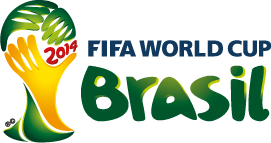
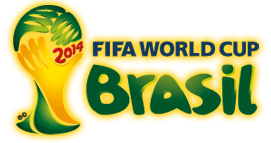
Style Black/gold

diff --git a/style.css b/style.css
@@ -7,18 +7,49 @@ body {
     background-attachment: fixed;
 }
 
+.logo {
+    width : 150px;
+    display : block;
+    margin : auto;
+}
+
+#header {
+    margin-bottom : -22px;
+	margin-top: -7px;
+	padding-bottom: 20px;
+	padding-top: 20px;
+	/* Permalink - use to edit and share this gradient: http://colorzilla.com/gradient-editor/#000000+0,111010+100 */
+	background: #000000; /* Old browsers */
+	background: -moz-linear-gradient(top,  #000000 0%, #111010 100%); /* FF3.6-15 */
+	background: -webkit-linear-gradient(top,  #000000 0%,#111010 100%); /* Chrome10-25,Safari5.1-6 */
+	background: linear-gradient(to bottom,  #000000 0%,#111010 100%); /* W3C, IE10+, FF16+, Chrome26+, Opera12+, Safari7+ */
+	filter: progid:DXImageTransform.Microsoft.gradient( startColorstr='#000000', endColorstr='#111010',GradientType=0 ); /* IE6-9 */
+
+}
+
 h1, h2, h3, h4 {
     text-align: center;
-    color: #555;
+    /* Permalink - use to edit and share this gradient: http://colorzilla.com/gradient-editor/#eab92d+0,c79810+100;Yellow+3D+%232 */
+	color: #eab92d; /* Old browsers */
+	color: -moz-linear-gradient(top,  #eab92d 0%, #c79810 100%); /* FF3.6-15 */
+	color: -webkit-linear-gradient(top,  #eab92d 0%,#c79810 100%); /* Chrome10-25,Safari5.1-6 */
+	color: linear-gradient(to bottom,  #eab92d 0%,#c79810 100%); /* W3C, IE10+, FF16+, Chrome26+, Opera12+, Safari7+ */
+	filter: progid:DXImageTransform.Microsoft.gradient( startColorstr='#eab92d', endColorstr='#c79810',GradientType=0 ); /* IE6-9 */
 }
 
 /* navbar */
 .nav ul {
-  list-style: none;
-  background-color: #C8F7C5;
-  text-align: center;
-  padding: 0;
-  margin: 0;
+	list-style: none;
+	text-align: center;
+	padding: 0;
+	margin: 0;
+	/* Permalink - use to edit and share this gradient: http://colorzilla.com/gradient-editor/#353535+0,0e0e0e+42 */
+	background: #353535; /* Old browsers */
+	background: -moz-linear-gradient(top,  #353535 0%, #0e0e0e 42%); /* FF3.6-15 */
+	background: -webkit-linear-gradient(top,  #353535 0%,#0e0e0e 42%); /* Chrome10-25,Safari5.1-6 */
+	background: linear-gradient(to bottom,  #353535 0%,#0e0e0e 42%); /* W3C, IE10+, FF16+, Chrome26+, Opera12+, Safari7+ */
+	filter: progid:DXImageTransform.Microsoft.gradient( startColorstr='#353535', endColorstr='#0e0e0e',GradientType=0 ); /* IE6-9 */
+
 }
 .nav li {
   font-family: 'Oswald', sans-serif;
@@ -29,15 +60,20 @@ h1, h2, h3, h4 {
 }
  
 .nav a {
-  text-decoration: none;
-  color: #555;
-  display: block;
-  transition: .3s background-color;
+	text-decoration: none;
+	/* Permalink - use to edit and share this gradient: http://colorzilla.com/gradient-editor/#eab92d+0,c79810+100;Yellow+3D+%232 */
+	color: #eab92d; /* Old browsers */
+	color: -moz-linear-gradient(top,  #eab92d 0%, #c79810 100%); /* FF3.6-15 */
+	color: -webkit-linear-gradient(top,  #eab92d 0%,#c79810 100%); /* Chrome10-25,Safari5.1-6 */
+	color: linear-gradient(to bottom,  #eab92d 0%,#c79810 100%); /* W3C, IE10+, FF16+, Chrome26+, Opera12+, Safari7+ */
+	filter: progid:DXImageTransform.Microsoft.gradient( startColorstr='#eab92d', endColorstr='#c79810',GradientType=0 ); /* IE6-9 */
+	display: block;
+	transition: .3s background-color;
 }
  
 .nav a:hover {
 	color: #ffffff;
-  background-color: #005f5f;
+	background-color: #FFB61E;
 }
  
 .nav a.active {
@@ -77,9 +113,15 @@ h1, h2, h3, h4 {
 #graphiqueMonde {
 	overflow:hidden;
 	border-radius: 10px;
-    background-color : #C8F7C5;
 	margin :15px;
 	padding : 5px;
+	/* Permalink - use to edit and share this gradient: http://colorzilla.com/gradient-editor/#111010+0,000000+100 */
+	background: #111010; /* Old browsers */
+	background: -moz-linear-gradient(top,  #111010 0%, #000000 100%); /* FF3.6-15 */
+	background: -webkit-linear-gradient(top,  #111010 0%,#000000 100%); /* Chrome10-25,Safari5.1-6 */
+	background: linear-gradient(to bottom,  #111010 0%,#000000 100%); /* W3C, IE10+, FF16+, Chrome26+, Opera12+, Safari7+ */
+	filter: progid:DXImageTransform.Microsoft.gradient( startColorstr='#111010', endColorstr='#000000',GradientType=0 ); /* IE6-9 */
+
 }
 
 #worldMap {
@@ -90,10 +132,15 @@ h1, h2, h3, h4 {
 	width: 800px; 
 	height: 500px;
 	border-radius: 15px;
-	border-color: #90C695;
+	/* Permalink - use to edit and share this gradient: http://colorzilla.com/gradient-editor/#eab92d+0,c79810+100;Yellow+3D+%232 */
+	border-color: #eab92d; /* Old browsers */
+	border-color: -moz-linear-gradient(top,  #eab92d 0%, #c79810 100%); /* FF3.6-15 */
+	border-color: -webkit-linear-gradient(top,  #eab92d 0%,#c79810 100%); /* Chrome10-25,Safari5.1-6 */
+	border-color: linear-gradient(to bottom,  #eab92d 0%,#c79810 100%); /* W3C, IE10+, FF16+, Chrome26+, Opera12+, Safari7+ */
+	filter: progid:DXImageTransform.Microsoft.gradient( startColorstr='#eab92d', endColorstr='#c79810',GradientType=0 ); /* IE6-9 */
 	border-width : 5px;
 	border-style: solid;
-    background-color : #FFFFFF;
+    background-color : #080808;
 }
 
 .datamap {
@@ -110,9 +157,10 @@ h1, h2, h3, h4 {
 	margin-bottom :15px; 
 	width: 770px;
 	height: 20px;
-	background-color : #FFFFFF;
+	background-color : #080808;
 	border-radius: 10px;
 	text-align : center;
+	color : #FFFFFF;
 }
 
 .datamaps-legend dl {
@@ -120,13 +168,31 @@ h1, h2, h3, h4 {
   display: inline-block;
 }
 
+.hoverinfo {
+    position : relative;
+    left : 350px;
+    top : 200px;
+}
+
 /* info equipe */
 #infosEquipe {
 	border-radius: 10px;
-    background-color : #C8F7C5;
 	margin :15px;
 	padding : 5px;
 	text-align: center;
+	color: #D2D7D3;
+	font-style : bold;
+	/* Permalink - use to edit and share this gradient: http://colorzilla.com/gradient-editor/#111010+0,000000+100 */
+	background: #111010; /* Old browsers */
+	background: -moz-linear-gradient(top,  #111010 0%, #000000 100%); /* FF3.6-15 */
+	background: -webkit-linear-gradient(top,  #111010 0%,#000000 100%); /* Chrome10-25,Safari5.1-6 */
+	background: linear-gradient(to bottom,  #111010 0%,#000000 100%); /* W3C, IE10+, FF16+, Chrome26+, Opera12+, Safari7+ */
+	filter: progid:DXImageTransform.Microsoft.gradient( startColorstr='#111010', endColorstr='#000000',GradientType=0 ); /* IE6-9 */
+}
+
+#infosEquipe a {
+	color: #D2D7D3;
+	font-style : bold;
 }
 /* pour piechart et barH */
 #graphiqueStats{
@@ -145,7 +211,12 @@ h1, h2, h3, h4 {
 	height: 100%;
 	border-radius: 10px;
 	border-color: #6BB9F0;
-	background-color : #C8F7C5;
+	/* Permalink - use to edit and share this gradient: http://colorzilla.com/gradient-editor/#111010+0,000000+100 */
+	background: #111010; /* Old browsers */
+	background: -moz-linear-gradient(top,  #111010 0%, #000000 100%); /* FF3.6-15 */
+	background: -webkit-linear-gradient(top,  #111010 0%,#000000 100%); /* Chrome10-25,Safari5.1-6 */
+	background: linear-gradient(to bottom,  #111010 0%,#000000 100%); /* W3C, IE10+, FF16+, Chrome26+, Opera12+, Safari7+ */
+	filter: progid:DXImageTransform.Microsoft.gradient( startColorstr='#111010', endColorstr='#000000',GradientType=0 ); /* IE6-9 */
 }
 
 .arc path {
@@ -159,6 +230,12 @@ h1, h2, h3, h4 {
 
 .legend {
 	font-size: 12px;
+	/* Permalink - use to edit and share this gradient: http://colorzilla.com/gradient-editor/#eab92d+0,c79810+100;Yellow+3D+%232 */
+	color: #eab92d; /* Old browsers */
+	color: -moz-linear-gradient(top,  #eab92d 0%, #c79810 100%); /* FF3.6-15 */
+	color: -webkit-linear-gradient(top,  #eab92d 0%,#c79810 100%); /* Chrome10-25,Safari5.1-6 */
+	color: linear-gradient(to bottom,  #eab92d 0%,#c79810 100%); /* W3C, IE10+, FF16+, Chrome26+, Opera12+, Safari7+ */
+	filter: progid:DXImageTransform.Microsoft.gradient( startColorstr='#eab92d', endColorstr='#c79810',GradientType=0 ); /* IE6-9 */
 }
 
 legend.rect {
@@ -175,14 +252,19 @@ legend.rect {
 	height: 100%;
 	border-radius: 10px;
 	border-color: #6BB9F0;
-	background-color : #C8F7C5;
+	/* Permalink - use to edit and share this gradient: http://colorzilla.com/gradient-editor/#111010+0,000000+100 */
+	background: #111010; /* Old browsers */
+	background: -moz-linear-gradient(top,  #111010 0%, #000000 100%); /* FF3.6-15 */
+	background: -webkit-linear-gradient(top,  #111010 0%,#000000 100%); /* Chrome10-25,Safari5.1-6 */
+	background: linear-gradient(to bottom,  #111010 0%,#000000 100%); /* W3C, IE10+, FF16+, Chrome26+, Opera12+, Safari7+ */
+	filter: progid:DXImageTransform.Microsoft.gradient( startColorstr='#111010', endColorstr='#000000',GradientType=0 ); /* IE6-9 */
 }
 
 .bar {
-    background-color: #59ABE3;
-    /*border: 1px solid midnightblue;*/
+    background-color: #FFB61E;
     margin-top : 2px;
-    color : white;
+    color: black;
+	font-style : bold;
     font-size : 16px;
     text-align : right;
     font-weight : bold;
@@ -193,30 +275,15 @@ legend.rect {
 	border-color: #6BB9F0;
 }
 
-.logo {
-    width : 150px;
-    display : block;
-    margin : auto;
-}
-
-#header {
-    margin-bottom : -20px;
-}
-
 .bar:hover {
-    background-color: #4183D7;
+    background-color: #F9690E;
 }
 
 #barH label {
-    color : #555;
+    color: #FFFFFF;
     font-size : 12px;
     display : inline-block;
     width : 30%;
     font-style : bold;
-}
-
-.hoverinfo {
-    position : relative;
-    left : 350px;
-    top : 200px;
+	font-weight : bold;
 }

diff --git a/script.js b/script.js
@@ -9,7 +9,8 @@ function creationPie(donnees, paysVoulu){
 	var w = 575;
 	var h = 370;
 	var r = h/2;
-	var color = d3.scale.category20c();
+	var color = d3.scale.ordinal()
+    .range(["#F9690E","#FFB61E"]);
 	var legendRectSize = 18;
     var legendSpacing = 4;
 
@@ -41,7 +42,12 @@ function creationPie(donnees, paysVoulu){
 
 	var arc = d3.svg.arc().outerRadius(r);
 
-	var arcs = vis.selectAll("g.slice").data(pie).enter().append("svg:g").attr("class", "slice");
+	var arcs = vis.selectAll("g.slice")
+					.data(pie)
+					.enter()
+					.append("svg:g")
+					.attr("class", "slice");
+	
 	arcs.append("svg:path")
 		.attr("fill", function(d, i){
 			return color(i);
@@ -53,9 +59,10 @@ function creationPie(donnees, paysVoulu){
 	arcs.append("svg:text").attr("transform", function(d){
 				d.innerRadius = 0;
 				d.outerRadius = r;
-		return "translate(" + arc.centroid(d) + ")";}).attr("text-anchor", "middle").text( function(d, i) {
-		return data[i].value;}
-		);
+				return "translate(" + arc.centroid(d) + ")";})
+		.attr("text-anchor", "middle").text( function(d, i) {return data[i].value;})
+		.style('fill', 'black')
+		.style('stroke', 'black');;
 	
 	var legend = vis.selectAll('.legend') 
           .data(color.domain())  
@@ -80,8 +87,10 @@ function creationPie(donnees, paysVoulu){
           .style('stroke', color);
           
         legend.append('text') 
-          .attr('x', legendRectSize*2 + legendSpacing+ 150)
-          .attr('y', legendRectSize - legendSpacing-150)
+          .attr('x', legendRectSize*2 + legendSpacing+ 155)
+          .attr('y', legendRectSize - legendSpacing-155)
+		  .style('fill', '#FFFFFF')
+         /* .style('stroke', color)*/
           .text(function(d, i) {return data[i].label;}); 
 }
 
@@ -183,20 +192,20 @@ function creationWorldMap(donnees) {
 		element: document.getElementById('worldMap'),
 		projection: 'mercator',
 		fills: {
-			"Plus de 20": '#22313F',
-			"Moins de 20": '#34495E',
-            "Moins de 15": '#336E7B',
-            "Moins de 10": '#67809F',
-            "Moins de 5": '#81CFE0',
-			"Aucun": '#C5EFF7',
-            defaultFill: '#D2D7D3'
+			"Plus de 20": '#CA6924',
+			"Moins de 20": '#F9690E',
+            "Moins de 15": '#FFA631',
+            "Moins de 10": '#FFB61E',
+            "Moins de 5": '#F4D03F',
+			"Aucun": '#F5D76E',
+            defaultFill: '#DADFE1'
         },
 		data: attributionCouleur(donnees),
 		geographyConfig: {
 			borderWidth: 0.2,
 			highlightOnHover: true,
-			highlightFillColor: '#2ECC71',
-			highlightBorderColor: '#87D37C',
+			highlightFillColor: '#8E44AD',
+			highlightBorderColor: '#BE90D4',
 			highlightBorderWidth: 1,
             popupTemplate: function(geo, data) {
                 return ['<div class="hoverinfo"><strong>',
@@ -207,6 +216,8 @@ function creationWorldMap(donnees) {
 		done: function(datamap) {
 			datamap.svg.call(d3.behavior.zoom().on("zoom", redraw));
 			function redraw() {
+				console.log(d3.event.scale);
+				console.log(d3.event.translate);
 				datamap.svg.selectAll("g").attr("transform", "translate(" + d3.event.translate + ")scale(" + d3.event.scale + ")");
 			}
 			datamap.svg.selectAll('.datamaps-subunit').on('click', function(geography) {
@@ -214,7 +225,7 @@ function creationWorldMap(donnees) {
 				var paysName = geography.properties.name;
 				if(isQualified(donnees, paysId)) {
 					var countries = attributionCouleur(donnees);
-					countries[paysId] = "#F7CA18";
+					countries[paysId] = "#8E44AD";
 					datamap.updateChoropleth(countries);
 					creationPie(donnees, paysId);
 					creationBarChart(donnees, paysId);
@@ -249,10 +260,10 @@ function creationTeamInfos(paysName) {
 					 .attr("src", flag);
 		
 		contentEquipe.append("p")
-					 .html(" <h4> Coach : </h4>"+coachName);
+					 .html(" <h3> Coach : </h3>"+coachName);
 		
 		contentEquipe.append("p")
-					 .html(" <h4> Information sur l'équipe : </h4>")
+					 .html(" <h3> Information sur l'équipe : </h3>")
 					 .append("a")
 					 .attr("href", url)
 					 .text("Page Wikipedia de l'équipe");
